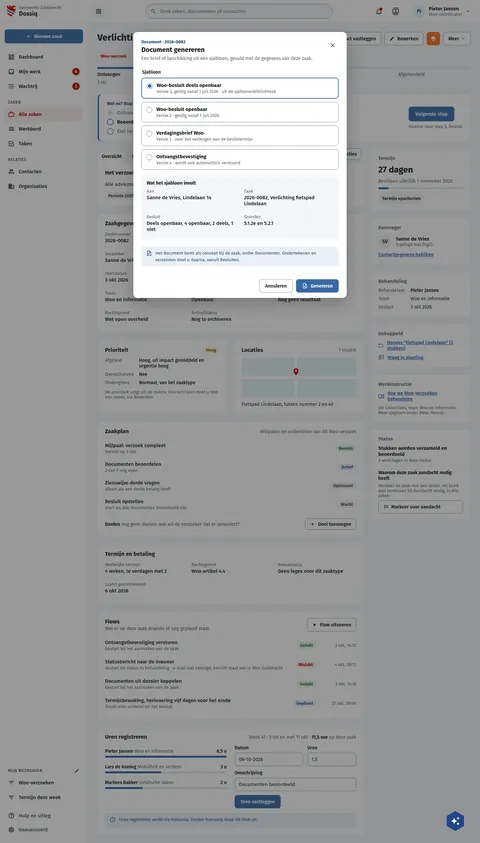
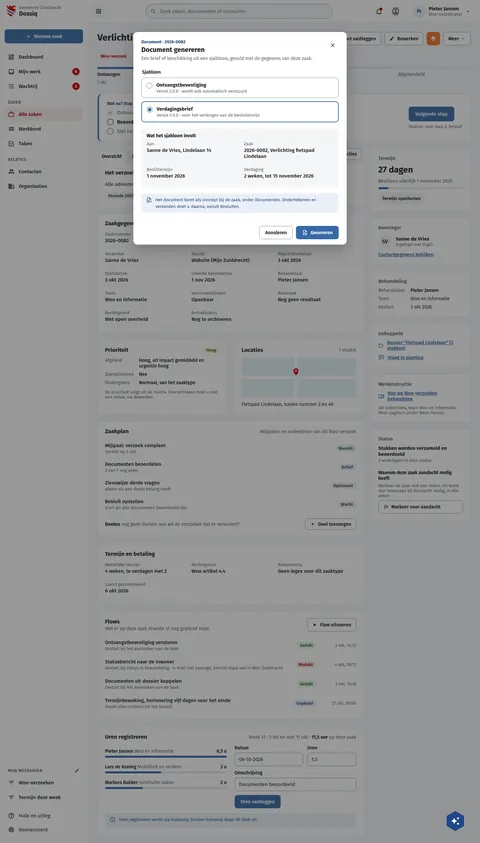
fix(screens): DqDocumentGenereren offers the templates dossiq ships
The dialog drew four templates (Woo-besluit deels openbaar v3, Woo-besluit
openbaar v2, Verdagingsbrief Woo v1, Ontvangstbevestiging v4) that dossiq
does not ship. dossiq ships two, in lib/Settings/templates:
Ontvangstbevestiging 2.0.0 and Verdagingsbrief 1.0.0. The board draws those
two, with Verdagingsbrief chosen, so the filled fields are the decision
deadline and the two-week extension rather than a decision and its grounds.

Coordinator decision 10, 25 Oct (dossiq-to-100%).

Assisted-by: ClaudeCode:claude-opus-5-5

Changed region(s): [[0.25, 0.0925, 0.75, 0.3701]]

diff --git a/preview/screens/boards/DqDocumentGenereren.html b/preview/screens/boards/DqDocumentGenereren.html
@@ -323,7 +323,7 @@ a{color:var(--sc-primary, #3669a5)}a:hover{color:var(--sc-primary-deep, #234a78)
         <button type="button" aria-label="Sluiten" style="flex: none; width: 36px; height: 36px; display: inline-flex; align-items: center; justify-content: center; border: 0; border-radius: 18px; background: transparent; color: var(--sc-work-text, #3d4047)"><svg width="20" height="20" viewbox="0 0 24 24" fill="currentColor" aria-hidden="true"><path d="M19,6.41L17.59,5L12,10.59L6.41,5L5,6.41L10.59,12L5,17.59L6.41,19L12,13.41L17.59,19L19,17.59L13.41,12L19,6.41Z"></path></svg></button>
       </div>
       <form style="display: flex; flex-direction: column; gap: 18px; padding: 18px 24px 22px">
-<fieldset style="margin: 0; padding: 0; border: 0; display: flex; flex-direction: column; gap: 10px"><legend style="font-size: 14px; font-weight: 600; margin-bottom: 8px">Sjabloon</legend><label style="display: flex; gap: 12px; align-items: flex-start; padding: 12px 14px; border-radius: 10px; border: 2px solid var(--sc-primary, #3669a5); background: #ffffff"><input type="radio" name="tpl" checked style="width: 18px; height: 18px; margin: 2px 0 0; accent-color: var(--sc-primary, #3669a5); flex: none"><span style="display: flex; flex-direction: column; gap: 2px"><strong style="font-size: 15px">Woo-besluit deels openbaar</strong><span style="font-size: 13px; color: var(--sc-work-muted, #5e6168)">Versie 3, geldig vanaf 1 juli 2026 · uit de sjablonenbibliotheek</span></span></label><label style="display: flex; gap: 12px; align-items: flex-start; padding: 12px 14px; border-radius: 10px; border: 1px solid var(--sc-work-field, #828a95)"><input type="radio" name="tpl" style="width: 18px; height: 18px; margin: 2px 0 0; accent-color: var(--sc-primary, #3669a5); flex: none"><span style="display: flex; flex-direction: column; gap: 2px"><strong style="font-size: 15px">Woo-besluit openbaar</strong><span style="font-size: 13px; color: var(--sc-work-muted, #5e6168)">Versie 2 · geldig vanaf 1 juli 2026</span></span></label><label style="display: flex; gap: 12px; align-items: flex-start; padding: 12px 14px; border-radius: 10px; border: 1px solid var(--sc-work-field, #828a95)"><input type="radio" name="tpl" style="width: 18px; height: 18px; margin: 2px 0 0; accent-color: var(--sc-primary, #3669a5); flex: none"><span style="display: flex; flex-direction: column; gap: 2px"><strong style="font-size: 15px">Verdagingsbrief Woo</strong><span style="font-size: 13px; color: var(--sc-work-muted, #5e6168)">Versie 1 · voor het verlengen van de beslistermijn</span></span></label><label style="display: flex; gap: 12px; align-items: flex-start; padding: 12px 14px; border-radius: 10px; border: 1px solid var(--sc-work-field, #828a95)"><input type="radio" name="tpl" style="width: 18px; height: 18px; margin: 2px 0 0; accent-color: var(--sc-primary, #3669a5); flex: none"><span style="display: flex; flex-direction: column; gap: 2px"><strong style="font-size: 15px">Ontvangstbevestiging</strong><span style="font-size: 13px; color: var(--sc-work-muted, #5e6168)">Versie 4 · wordt ook automatisch verstuurd</span></span></label></fieldset><div style="display: flex; flex-direction: column; gap: 8px; padding: 14px 16px; border-radius: 10px; background: var(--sc-work-ground, #f5f6f8)"><strong style="font-size: 14px">Wat het sjabloon invult</strong><dl style="margin: 0; display: grid; grid-template-columns: repeat(auto-fit, minmax(180px, 1fr)); gap: 12px 24px; font-size: 15px"><div style="display: flex; flex-direction: column; gap: 3px; padding-bottom: 10px; border-bottom: 1px solid var(--sc-work-soft, #eef0f3)"><dt style="font-size: 13px; color: var(--sc-work-muted, #5e6168)">Aan</dt><dd style="margin: 0; font-weight: 500">Sanne de Vries, Lindelaan 14</dd></div><div style="display: flex; flex-direction: column; gap: 3px; padding-bottom: 10px; border-bottom: 1px solid var(--sc-work-soft, #eef0f3)"><dt style="font-size: 13px; color: var(--sc-work-muted, #5e6168)">Zaak</dt><dd style="margin: 0; font-weight: 500">2026-0082, Verlichting fietspad Lindelaan</dd></div><div style="display: flex; flex-direction: column; gap: 3px; padding-bottom: 10px; border-bottom: 1px solid var(--sc-work-soft, #eef0f3)"><dt style="font-size: 13px; color: var(--sc-work-muted, #5e6168)">Besluit</dt><dd style="margin: 0; font-weight: 500">Deels openbaar, 4 openbaar, 2 deels, 1 niet</dd></div><div style="display: flex; flex-direction: column; gap: 3px; padding-bottom: 10px; border-bottom: 1px solid var(--sc-work-soft, #eef0f3)"><dt style="font-size: 13px; color: var(--sc-work-muted, #5e6168)">Gronden</dt><dd style="margin: 0; font-weight: 500">5.1.2e en 5.2.1</dd></div></dl></div><div style="display: flex; gap: 10px; align-items: flex-start; padding: 10px 14px; border-radius: 10px; background: var(--sc-primary-light, #eaf0f7); color: var(--sc-primary-deep, #234a78); font-size: 13px; line-height: 1.5"><svg width="18" height="18" viewbox="0 0 24 24" fill="currentColor" aria-hidden="true" style="flex: none; margin-top: 1px"><path d="M23.5 17L18.5 22L15 18.5L16.5 17L18.5 19L22 15.5L23.5 17M6 2C4.89 2 4 2.9 4 4V20C4 21.11 4.89 22 6 22H13.81C13.45 21.38 13.2 20.7 13.08 20H6V4H13V9H18V13.08C18.33 13.03 18.67 13 19 13C19.34 13 19.67 13.03 20 13.08V8L14 2M8 12V14H16V12M8 16V18H13V16Z"></path></svg><span>Het document komt als concept bij de zaak, onder Documenten. Ondertekenen en verzenden doet u daarna, vanuit Besluiten.</span></div>
+<fieldset style="margin: 0; padding: 0; border: 0; display: flex; flex-direction: column; gap: 10px"><legend style="font-size: 14px; font-weight: 600; margin-bottom: 8px">Sjabloon</legend><label style="display: flex; gap: 12px; align-items: flex-start; padding: 12px 14px; border-radius: 10px; border: 1px solid var(--sc-work-field, #828a95)"><input type="radio" name="tpl" style="width: 18px; height: 18px; margin: 2px 0 0; accent-color: var(--sc-primary, #3669a5); flex: none"><span style="display: flex; flex-direction: column; gap: 2px"><strong style="font-size: 15px">Ontvangstbevestiging</strong><span style="font-size: 13px; color: var(--sc-work-muted, #5e6168)">Versie 2.0.0 · wordt ook automatisch verstuurd</span></span></label><label style="display: flex; gap: 12px; align-items: flex-start; padding: 12px 14px; border-radius: 10px; border: 2px solid var(--sc-primary, #3669a5); background: #ffffff"><input type="radio" name="tpl" checked style="width: 18px; height: 18px; margin: 2px 0 0; accent-color: var(--sc-primary, #3669a5); flex: none"><span style="display: flex; flex-direction: column; gap: 2px"><strong style="font-size: 15px">Verdagingsbrief</strong><span style="font-size: 13px; color: var(--sc-work-muted, #5e6168)">Versie 1.0.0 · voor het verlengen van de beslistermijn</span></span></label></fieldset><div style="display: flex; flex-direction: column; gap: 8px; padding: 14px 16px; border-radius: 10px; background: var(--sc-work-ground, #f5f6f8)"><strong style="font-size: 14px">Wat het sjabloon invult</strong><dl style="margin: 0; display: grid; grid-template-columns: repeat(auto-fit, minmax(180px, 1fr)); gap: 12px 24px; font-size: 15px"><div style="display: flex; flex-direction: column; gap: 3px; padding-bottom: 10px; border-bottom: 1px solid var(--sc-work-soft, #eef0f3)"><dt style="font-size: 13px; color: var(--sc-work-muted, #5e6168)">Aan</dt><dd style="margin: 0; font-weight: 500">Sanne de Vries, Lindelaan 14</dd></div><div style="display: flex; flex-direction: column; gap: 3px; padding-bottom: 10px; border-bottom: 1px solid var(--sc-work-soft, #eef0f3)"><dt style="font-size: 13px; color: var(--sc-work-muted, #5e6168)">Zaak</dt><dd style="margin: 0; font-weight: 500">2026-0082, Verlichting fietspad Lindelaan</dd></div><div style="display: flex; flex-direction: column; gap: 3px; padding-bottom: 10px; border-bottom: 1px solid var(--sc-work-soft, #eef0f3)"><dt style="font-size: 13px; color: var(--sc-work-muted, #5e6168)">Beslistermijn</dt><dd style="margin: 0; font-weight: 500">1 november 2026</dd></div><div style="display: flex; flex-direction: column; gap: 3px; padding-bottom: 10px; border-bottom: 1px solid var(--sc-work-soft, #eef0f3)"><dt style="font-size: 13px; color: var(--sc-work-muted, #5e6168)">Verdaging</dt><dd style="margin: 0; font-weight: 500">2 weken, tot 15 november 2026</dd></div></dl></div><div style="display: flex; gap: 10px; align-items: flex-start; padding: 10px 14px; border-radius: 10px; background: var(--sc-primary-light, #eaf0f7); color: var(--sc-primary-deep, #234a78); font-size: 13px; line-height: 1.5"><svg width="18" height="18" viewbox="0 0 24 24" fill="currentColor" aria-hidden="true" style="flex: none; margin-top: 1px"><path d="M23.5 17L18.5 22L15 18.5L16.5 17L18.5 19L22 15.5L23.5 17M6 2C4.89 2 4 2.9 4 4V20C4 21.11 4.89 22 6 22H13.81C13.45 21.38 13.2 20.7 13.08 20H6V4H13V9H18V13.08C18.33 13.03 18.67 13 19 13C19.34 13 19.67 13.03 20 13.08V8L14 2M8 12V14H16V12M8 16V18H13V16Z"></path></svg><span>Het document komt als concept bij de zaak, onder Documenten. Ondertekenen en verzenden doet u daarna, vanuit Besluiten.</span></div>
       </form>
       <div style="display: flex; flex-wrap: wrap; justify-content: flex-end; gap: 10px; padding: 16px 24px; border-top: 1px solid var(--sc-work-soft, #eef0f3)">
         <button type="button" style="height: 40px; padding: 0 16px; border: 1px solid var(--sc-work-field, #828a95); border-radius: 8px; background: #ffffff; font: 600 14px var(--sc-font, 'Fira Sans'), sans-serif; color: var(--sc-work-ink, #1b1c1d)">Annuleren</button>

diff --git a/screens-src/zuiddrecht/DqDocumentGenereren.dc.html b/screens-src/zuiddrecht/DqDocumentGenereren.dc.html
@@ -173,7 +173,7 @@ a{color:#3669a5}a:hover{color:#234a78}
         <button type="button" aria-label="Sluiten" style="flex: none; width: 36px; height: 36px; display: inline-flex; align-items: center; justify-content: center; border: 0; border-radius: 18px; background: transparent; color: #3d4047"><svg width="20" height="20" viewBox="0 0 24 24" fill="currentColor" aria-hidden="true"><path d="M19,6.41L17.59,5L12,10.59L6.41,5L5,6.41L10.59,12L5,17.59L6.41,19L12,13.41L17.59,19L19,17.59L13.41,12L19,6.41Z"></path></svg></button>
       </div>
       <form style="display: flex; flex-direction: column; gap: 18px; padding: 18px 24px 22px">
-<fieldset style="margin: 0; padding: 0; border: 0; display: flex; flex-direction: column; gap: 10px"><legend style="font-size: 14px; font-weight: 600; margin-bottom: 8px">Sjabloon</legend><label style="display: flex; gap: 12px; align-items: flex-start; padding: 12px 14px; border-radius: 10px; border: 2px solid #3669a5; background: #ffffff"><input type="radio" name="tpl" checked style="width: 18px; height: 18px; margin: 2px 0 0; accent-color: #3669a5; flex: none"><span style="display: flex; flex-direction: column; gap: 2px"><strong style="font-size: 15px">Woo-besluit deels openbaar</strong><span style="font-size: 13px; color: #5e6168">Versie 3, geldig vanaf 1 juli 2026 · uit de sjablonenbibliotheek</span></span></label><label style="display: flex; gap: 12px; align-items: flex-start; padding: 12px 14px; border-radius: 10px; border: 1px solid #828a95"><input type="radio" name="tpl" style="width: 18px; height: 18px; margin: 2px 0 0; accent-color: #3669a5; flex: none"><span style="display: flex; flex-direction: column; gap: 2px"><strong style="font-size: 15px">Woo-besluit openbaar</strong><span style="font-size: 13px; color: #5e6168">Versie 2 · geldig vanaf 1 juli 2026</span></span></label><label style="display: flex; gap: 12px; align-items: flex-start; padding: 12px 14px; border-radius: 10px; border: 1px solid #828a95"><input type="radio" name="tpl" style="width: 18px; height: 18px; margin: 2px 0 0; accent-color: #3669a5; flex: none"><span style="display: flex; flex-direction: column; gap: 2px"><strong style="font-size: 15px">Verdagingsbrief Woo</strong><span style="font-size: 13px; color: #5e6168">Versie 1 · voor het verlengen van de beslistermijn</span></span></label><label style="display: flex; gap: 12px; align-items: flex-start; padding: 12px 14px; border-radius: 10px; border: 1px solid #828a95"><input type="radio" name="tpl" style="width: 18px; height: 18px; margin: 2px 0 0; accent-color: #3669a5; flex: none"><span style="display: flex; flex-direction: column; gap: 2px"><strong style="font-size: 15px">Ontvangstbevestiging</strong><span style="font-size: 13px; color: #5e6168">Versie 4 · wordt ook automatisch verstuurd</span></span></label></fieldset><div style="display: flex; flex-direction: column; gap: 8px; padding: 14px 16px; border-radius: 10px; background: #f5f6f8"><strong style="font-size: 14px">Wat het sjabloon invult</strong><dl style="margin: 0; display: grid; grid-template-columns: repeat(auto-fit, minmax(180px, 1fr)); gap: 12px 24px; font-size: 15px"><div style="display: flex; flex-direction: column; gap: 3px; padding-bottom: 10px; border-bottom: 1px solid #eef0f3"><dt style="font-size: 13px; color: #5e6168">Aan</dt><dd style="margin: 0; font-weight: 500">Sanne de Vries, Lindelaan 14</dd></div><div style="display: flex; flex-direction: column; gap: 3px; padding-bottom: 10px; border-bottom: 1px solid #eef0f3"><dt style="font-size: 13px; color: #5e6168">Zaak</dt><dd style="margin: 0; font-weight: 500">2026-0082, Verlichting fietspad Lindelaan</dd></div><div style="display: flex; flex-direction: column; gap: 3px; padding-bottom: 10px; border-bottom: 1px solid #eef0f3"><dt style="font-size: 13px; color: #5e6168">Besluit</dt><dd style="margin: 0; font-weight: 500">Deels openbaar, 4 openbaar, 2 deels, 1 niet</dd></div><div style="display: flex; flex-direction: column; gap: 3px; padding-bottom: 10px; border-bottom: 1px solid #eef0f3"><dt style="font-size: 13px; color: #5e6168">Gronden</dt><dd style="margin: 0; font-weight: 500">5.1.2e en 5.2.1</dd></div></dl></div><div style="display: flex; gap: 10px; align-items: flex-start; padding: 10px 14px; border-radius: 10px; background: #eaf0f7; color: #234a78; font-size: 13px; line-height: 1.5"><svg width="18" height="18" viewBox="0 0 24 24" fill="currentColor" aria-hidden="true" style="flex: none; margin-top: 1px"><path d="M23.5 17L18.5 22L15 18.5L16.5 17L18.5 19L22 15.5L23.5 17M6 2C4.89 2 4 2.9 4 4V20C4 21.11 4.89 22 6 22H13.81C13.45 21.38 13.2 20.7 13.08 20H6V4H13V9H18V13.08C18.33 13.03 18.67 13 19 13C19.34 13 19.67 13.03 20 13.08V8L14 2M8 12V14H16V12M8 16V18H13V16Z"></path></svg><span>Het document komt als concept bij de zaak, onder Documenten. Ondertekenen en verzenden doet u daarna, vanuit Besluiten.</span></div>
+<fieldset style="margin: 0; padding: 0; border: 0; display: flex; flex-direction: column; gap: 10px"><legend style="font-size: 14px; font-weight: 600; margin-bottom: 8px">Sjabloon</legend><label style="display: flex; gap: 12px; align-items: flex-start; padding: 12px 14px; border-radius: 10px; border: 1px solid #828a95"><input type="radio" name="tpl" style="width: 18px; height: 18px; margin: 2px 0 0; accent-color: #3669a5; flex: none"><span style="display: flex; flex-direction: column; gap: 2px"><strong style="font-size: 15px">Ontvangstbevestiging</strong><span style="font-size: 13px; color: #5e6168">Versie 2.0.0 · wordt ook automatisch verstuurd</span></span></label><label style="display: flex; gap: 12px; align-items: flex-start; padding: 12px 14px; border-radius: 10px; border: 2px solid #3669a5; background: #ffffff"><input type="radio" name="tpl" checked style="width: 18px; height: 18px; margin: 2px 0 0; accent-color: #3669a5; flex: none"><span style="display: flex; flex-direction: column; gap: 2px"><strong style="font-size: 15px">Verdagingsbrief</strong><span style="font-size: 13px; color: #5e6168">Versie 1.0.0 · voor het verlengen van de beslistermijn</span></span></label></fieldset><div style="display: flex; flex-direction: column; gap: 8px; padding: 14px 16px; border-radius: 10px; background: #f5f6f8"><strong style="font-size: 14px">Wat het sjabloon invult</strong><dl style="margin: 0; display: grid; grid-template-columns: repeat(auto-fit, minmax(180px, 1fr)); gap: 12px 24px; font-size: 15px"><div style="display: flex; flex-direction: column; gap: 3px; padding-bottom: 10px; border-bottom: 1px solid #eef0f3"><dt style="font-size: 13px; color: #5e6168">Aan</dt><dd style="margin: 0; font-weight: 500">Sanne de Vries, Lindelaan 14</dd></div><div style="display: flex; flex-direction: column; gap: 3px; padding-bottom: 10px; border-bottom: 1px solid #eef0f3"><dt style="font-size: 13px; color: #5e6168">Zaak</dt><dd style="margin: 0; font-weight: 500">2026-0082, Verlichting fietspad Lindelaan</dd></div><div style="display: flex; flex-direction: column; gap: 3px; padding-bottom: 10px; border-bottom: 1px solid #eef0f3"><dt style="font-size: 13px; color: #5e6168">Beslistermijn</dt><dd style="margin: 0; font-weight: 500">1 november 2026</dd></div><div style="display: flex; flex-direction: column; gap: 3px; padding-bottom: 10px; border-bottom: 1px solid #eef0f3"><dt style="font-size: 13px; color: #5e6168">Verdaging</dt><dd style="margin: 0; font-weight: 500">2 weken, tot 15 november 2026</dd></div></dl></div><div style="display: flex; gap: 10px; align-items: flex-start; padding: 10px 14px; border-radius: 10px; background: #eaf0f7; color: #234a78; font-size: 13px; line-height: 1.5"><svg width="18" height="18" viewBox="0 0 24 24" fill="currentColor" aria-hidden="true" style="flex: none; margin-top: 1px"><path d="M23.5 17L18.5 22L15 18.5L16.5 17L18.5 19L22 15.5L23.5 17M6 2C4.89 2 4 2.9 4 4V20C4 21.11 4.89 22 6 22H13.81C13.45 21.38 13.2 20.7 13.08 20H6V4H13V9H18V13.08C18.33 13.03 18.67 13 19 13C19.34 13 19.67 13.03 20 13.08V8L14 2M8 12V14H16V12M8 16V18H13V16Z"></path></svg><span>Het document komt als concept bij de zaak, onder Documenten. Ondertekenen en verzenden doet u daarna, vanuit Besluiten.</span></div>
       </form>
       <div style="display: flex; flex-wrap: wrap; justify-content: flex-end; gap: 10px; padding: 16px 24px; border-top: 1px solid #eef0f3">
         <button type="button" style="height: 40px; padding: 0 16px; border: 1px solid #828a95; border-radius: 8px; background: #ffffff; font: 600 14px 'Fira Sans', sans-serif; color: #1b1c1d">Annuleren</button>
